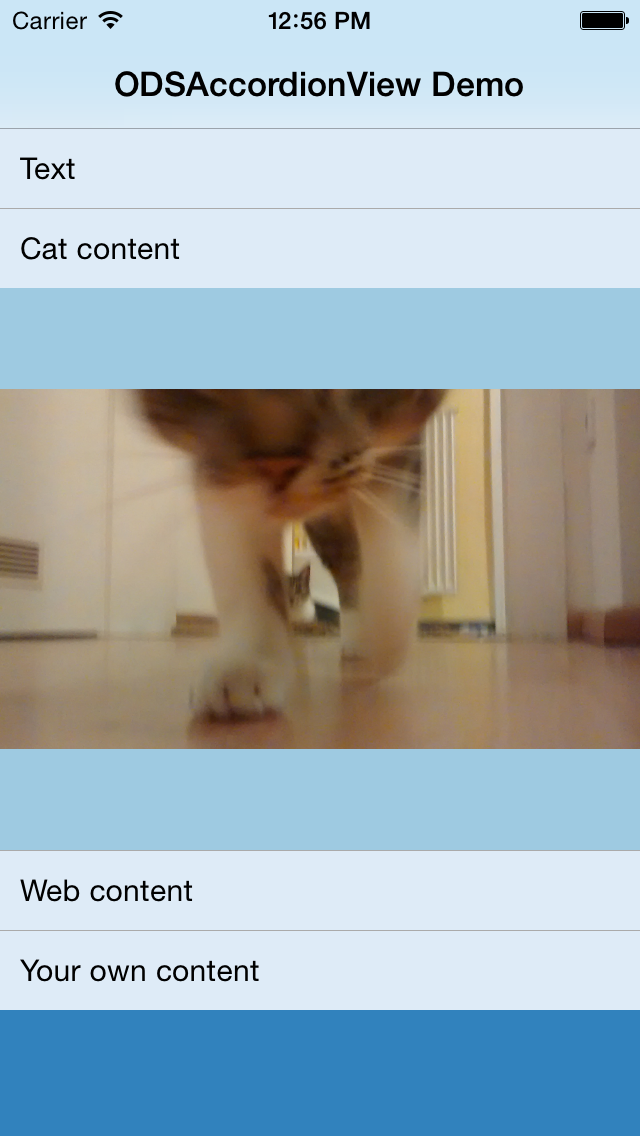
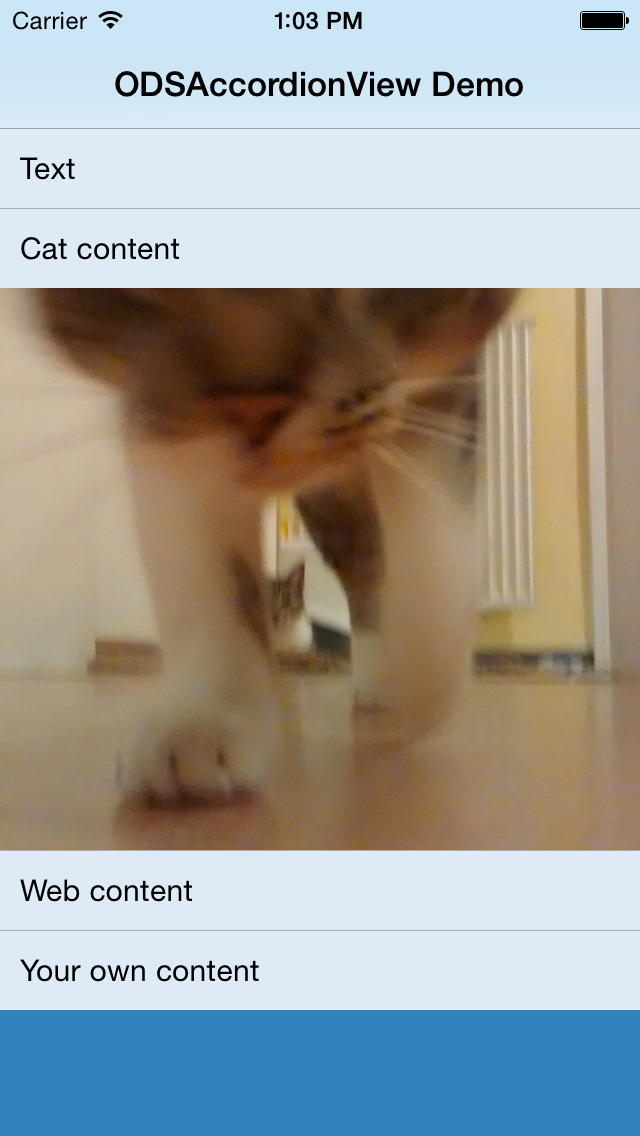
Update example code

diff --git a/Example/Demo/ODSExampleViewController.m b/Example/Demo/ODSExampleViewController.m
@@ -71,7 +71,8 @@
 
 -(UITextView *)textView {
     UITextView *textView = [[UITextView alloc] init];
-    textView.frame = CGRectMake(0, 0, 0, 300);
+    textView.frame = CGRectMake(0, 0, 0, 100);
+    textView.backgroundColor = [UIColor clearColor];
     textView.text = @"Lorem ipsum dolor sit amet, consectetur adipiscing elit. Donec a diam lectus. Sed sit amet ipsum mauris.\n\n Maecenas congue ligula ac quam viverra nec consectetur ante hendrerit.\n Donec et mollis dolor.";
     return textView;
     
@@ -81,7 +82,7 @@
     UIImage *image = [UIImage imageNamed:@"catcontent"];
     NSAssert(image != nil, @"image not found");
     UIImageView *imageView = [[UIImageView alloc] initWithImage:image];
-    imageView.contentMode = UIViewContentModeScaleAspectFit;
+    imageView.contentMode = UIViewContentModeBottom;
     return imageView;
 }
 
